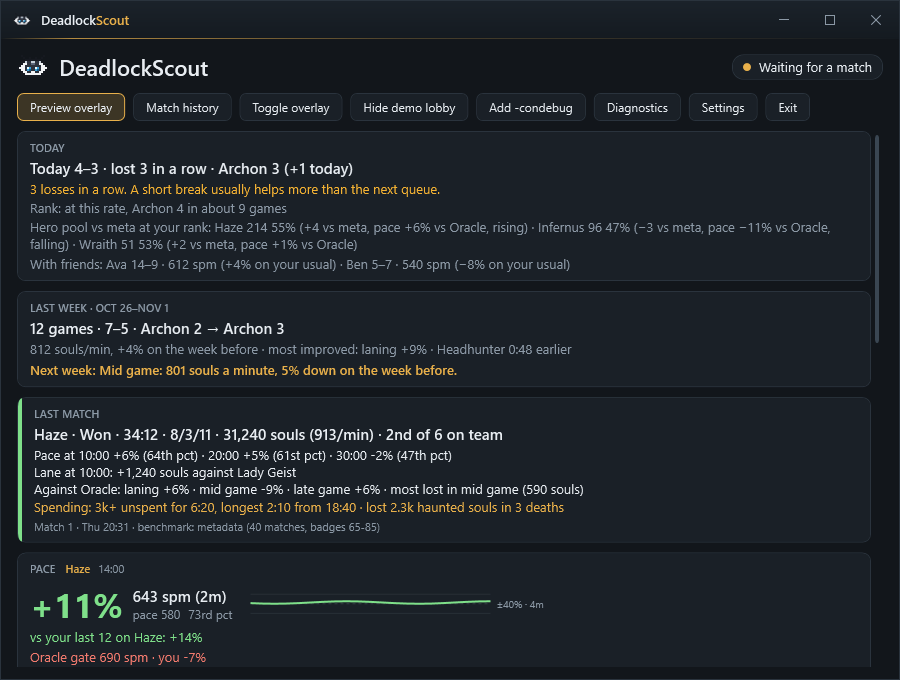
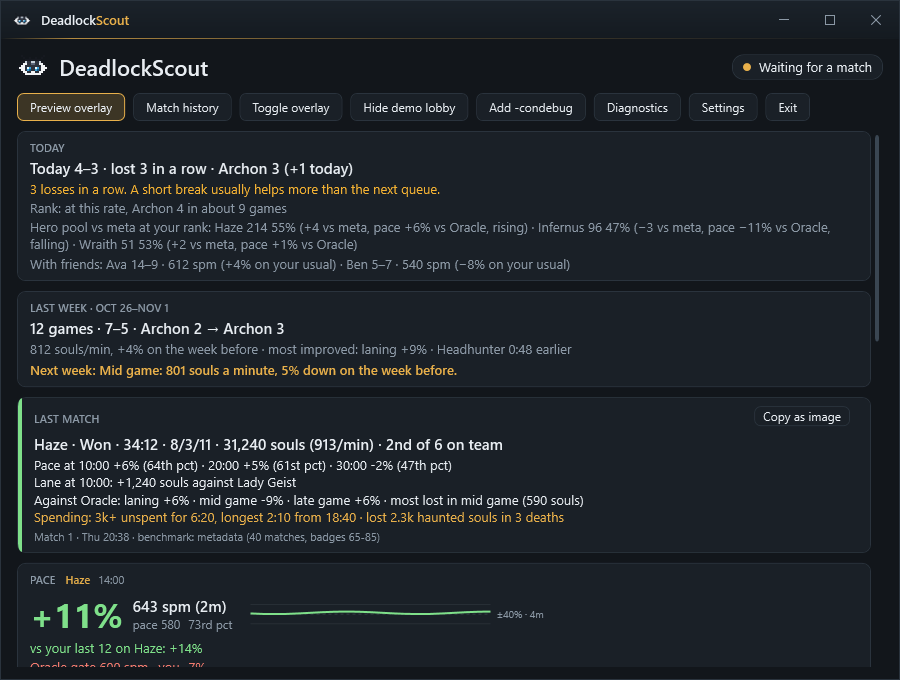
Last match: Copy as image, a share card for Discord (#156)
* Last match: Copy as image, a share card for Discord

"Copy as image" on the main window's last-match card puts a picture of
the report on the clipboard: the result line (hero, outcome, length,
K/D/A, souls), pace, lane (the opponent's hero, never a player), phases
and the spending recap, drawn from text on the app's own colours. Only
your own numbers: no other player's name, account id or rank, not the
footer with the match id and start time, and no game art.

App/Services/ShareCard renders it at twice its size; the screenshot run
saves the demo's card as share-card.png.

Claude-Session: https://claude.ai/code/session_01LSDkBn23Na5vMSKWLtGadZ

* Update app screenshots

* Update app screenshots

---------

Changed region(s): [[0.0311, 0.5868, 0.6533, 0.8029], [0.0311, 0.8338, 0.5911, 0.9882], [0.84, 0.5868, 0.9333, 0.6176]]

diff --git a/src/DeadlockScout.App/MainWindow.xaml b/src/DeadlockScout.App/MainWindow.xaml
@@ -157,7 +157,11 @@
                     <DockPanel>
                         <Border DockPanel.Dock="Left" Width="4" CornerRadius="8,0,0,8" Background="{Binding LastMatch.Won, Converter={x:Static vm:Converters.OutcomeBrush}}"/>
                         <StackPanel Margin="12,8">
-                            <TextBlock Text="LAST MATCH" Style="{StaticResource Caption}"/>
+                            <Grid>
+                                <TextBlock Text="LAST MATCH" Style="{StaticResource Caption}" VerticalAlignment="Center"/>
+                                <Button x:Name="ShareButton" Content="Copy as image" Click="CopyShareCard" HorizontalAlignment="Right" Padding="8,1" FontSize="12"
+                                        ToolTip="Copies this report as a picture to paste into Discord: your own numbers only, no other player's name, and not the match id"/>
+                            </Grid>
                             <TextBlock Text="{Binding LastMatch.Title}" FontSize="15" FontWeight="SemiBold" TextWrapping="Wrap"/>
                             <TextBlock Text="{Binding LastMatch.Pace}" TextWrapping="Wrap" Margin="0,2,0,0"
                                        Visibility="{Binding LastMatch.Pace, Converter={x:Static vm:Converters.VisibleIfNotEmpty}}"/>

diff --git a/src/DeadlockScout.App/Services/ShareCard.cs b/src/DeadlockScout.App/Services/ShareCard.cs
@@ -1,0 +1,81 @@
+using System.IO;
+using System.Windows;
+using System.Windows.Controls;
+using System.Windows.Media;
+using System.Windows.Media.Imaging;
+using DeadlockScout.App.ViewModels;
+using Brush = System.Windows.Media.Brush;
+using Brushes = System.Windows.Media.Brushes;
+using Application = System.Windows.Application;
+using Clipboard = System.Windows.Clipboard;
+using HorizontalAlignment = System.Windows.HorizontalAlignment;
+
+namespace DeadlockScout.App.Services;
+
+/// <summary>
+/// The last match's report as a picture to paste into Discord. Only your own numbers: the result line (hero, outcome,
+/// length, K/D/A, souls), the pace, the lane line (which names the opponent's hero, never a player), the phases and the
+/// spending recap. Never the footer (match id and start time), no other player's name, account id or rank, and no game
+/// art: the card is drawn from text on the app's own colours.
+/// </summary>
+public static class ShareCard
+{
+    public const double Width = 560;
+
+    /// <summary>The lines on the card, in order; empty ones are left out. Pure over the report's text, so the content is plain.</summary>
+    public static IReadOnlyList<string> Lines(PostMatchViewModel m)
+        => new[] { m.Title, m.Pace, m.Lane, m.Phases, m.Recap }.Where(l => !string.IsNullOrWhiteSpace(l)).ToList();
+
+    /// <summary>The card at twice its size, for a sharp paste.</summary>
+    public static BitmapSource Render(PostMatchViewModel m)
+    {
+        Brush Res(string key, Brush fallback) => Application.Current?.TryFindResource(key) as Brush ?? fallback;
+        var fg = Res("Fg", Brushes.White);
+        var muted = Res("Muted", Brushes.Gray);
+        var gold = Res("Gold", Brushes.Goldenrod);
+        var stack = new StackPanel { Margin = new Thickness(18, 14, 18, 14) };
+        stack.Children.Add(new TextBlock { Text = "LAST MATCH", FontSize = 11, FontWeight = FontWeights.SemiBold, Foreground = muted });
+        var lines = Lines(m);
+        for (int i = 0; i < lines.Count; i++)
+            stack.Children.Add(new TextBlock
+            {
+                Text = lines[i], TextWrapping = TextWrapping.Wrap, Margin = new Thickness(0, i == 0 ? 2 : 3, 0, 0),
+                FontSize = i == 0 ? 16 : 13, FontWeight = i == 0 ? FontWeights.SemiBold : FontWeights.Normal,
+                Foreground = lines[i] == m.Recap ? gold : fg,
+            });
+        stack.Children.Add(new TextBlock { Text = "DeadlockScout", FontSize = 11, Foreground = muted, Margin = new Thickness(0, 8, 0, 0), HorizontalAlignment = HorizontalAlignment.Right });
+        var card = new Border
+        {
+            Width = Width,
+            Background = Res("Surface", Brushes.Black),
+            BorderBrush = m.Won ? Res("Good", Brushes.LimeGreen) : Res("Bad", Brushes.IndianRed),
+            BorderThickness = new Thickness(5, 0, 0, 0),
+            CornerRadius = new CornerRadius(8),
+            Child = stack,
+        };
+        card.Measure(new System.Windows.Size(Width, double.PositiveInfinity));
+        card.Arrange(new Rect(card.DesiredSize));
+        card.UpdateLayout();
+        var bitmap = new RenderTargetBitmap((int)Math.Ceiling(card.ActualWidth * 2), (int)Math.Ceiling(card.ActualHeight * 2), 192, 192, PixelFormats.Pbgra32);
+        bitmap.Render(card);
+        bitmap.Freeze();
+        return bitmap;
+    }
+
+    /// <summary>Puts the card on the clipboard; false when there is no report or the clipboard is busy.</summary>
+    public static bool Copy(PostMatchViewModel m)
+    {
+        if (!m.HasData) return false;
+        try { Clipboard.SetImage(Render(m)); return true; }
+        catch (System.Runtime.InteropServices.COMException) { return false; } // another program holds the clipboard
+    }
+
+    public static void Save(BitmapSource image, string path)
+    {
+        var png = new PngBitmapEncoder();
+        png.Frames.Add(BitmapFrame.Create(image));
+        Directory.CreateDirectory(Path.GetDirectoryName(Path.GetFullPath(path))!);
+        using var file = File.Create(path);
+        png.Save(file);
+    }
+}

diff --git a/src/DeadlockScout.App/Program.cs b/src/DeadlockScout.App/Program.cs
@@ -247,6 +247,8 @@ public static class Program
                 ScreenshotRenderer.Render((FrameworkElement)VisualTreeHelper.GetChild(main, 0), main.Background, Path.Combine(folder, "window-frame.png"));
                 var content = (FrameworkElement)main.Content;
                 ScreenshotRenderer.RenderStacked(new[] { main.Header, main.Body }, main.Background, Path.Combine(folder, "main-window.png"), content.Margin);
+                // What "Copy as image" puts on the clipboard, from the demo's last match.
+                ShareCard.Save(ShareCard.Render(host.Services.GetRequiredService<OverlayState>().LastMatch), Path.Combine(folder, "share-card.png"));
 
                 var backdrop = new LinearGradientBrush(System.Windows.Media.Color.FromRgb(0x33, 0x3D, 0x47), System.Windows.Media.Color.FromRgb(0x0C, 0x0F, 0x12), 90);
                 // The match history with demo games, the first opened on its timelines.

diff --git a/src/DeadlockScout.App/MainWindow.xaml.cs b/src/DeadlockScout.App/MainWindow.xaml.cs
@@ -33,4 +33,13 @@ public partial class MainWindow : Window
     private void OpenSettings(object sender, RoutedEventArgs e) => _shell.OpenSettingsWindow();
     private void AddCondebug(object sender, RoutedEventArgs e) => _shell.AddCondebug();
     private void ShowDemo(object sender, RoutedEventArgs e) => _shell.ToggleDemo();
+
+    /// <summary>The last match's share card on the clipboard; the button says for a moment whether it worked.</summary>
+    private async void CopyShareCard(object sender, RoutedEventArgs e)
+    {
+        bool ok = DataContext is OverlayState s && Services.ShareCard.Copy(s.LastMatch);
+        ShareButton.Content = ok ? "Copied" : "Could not copy";
+        await Task.Delay(TimeSpan.FromSeconds(2));
+        ShareButton.Content = "Copy as image";
+    }
 }

diff --git a/docs/features.md b/docs/features.md
@@ -12,7 +12,7 @@ window.
 - **Lane matchups**: your hero's lane win rate against each lane opponent's hero at your rank, and under each opponent their **recent form**: their last ten games on that hero (record, souls per minute) against their usual pace on it, red when they are farming faster than usual ("last 10 on Lady Geist: 7–3 · 846/min, +9% on their usual"). One match-history call per lane opponent, cached a day; `overlay.panels.laneForm` turns it off.
 - **Build hint**: what your hero's players buy at your current souls, with their win rate, and your next usual ability point. Under it, the **next item nudge**: your usual next big item on this hero (3,000 souls and up, from your last 30 games, skipping what you already own) and when the rank gate's players have it, "Next: Fortitude · Oracle has it by 14:44 · in 0:24", gold 30 s before and red once you are past it. With the rank's soul curve it says it **at your pace** instead (0.3): how long, at your souls per minute over the last two minutes, until you have the souls the rank's players have when they buy it ("Next: Fortitude ~2:10 at your pace · Oracle 16:30", or "you have Oracle's souls for it"); not once you are past the rank's time, and none beyond ten minutes. It compares net worth with net worth, so it needs no guess at how many of your souls are unspent. Once your unspent souls cover the item's price it says so instead, in green, so a trip to the shop is not put off (0.4): "Next: Fortitude 3,200 · affordable now" from OCR's live count (haunted souls included, since they spend until a death takes them), or "affordable at 14:20" from the broadcast, which is half a minute late. `overlay.panels.nextItem` turns it off.
 - **Real-time souls by OCR** (M6, opt in): draw boxes over your soul count and the match clock, and the built-in Windows OCR reads them once a second, so your pace no longer lags the broadcast by a minute. The HUD's counter is your unspent souls, so the app adds the price of the items the broadcast says you hold, and of anything you bought since (a drop of about one item's price, read twice), to make it your net worth, which is what the pace curves count (0.3); haunted souls (unsecured: spendable, lost if you die), shown in a smaller line under the count, are read and added to your unspent souls, and the "SOULS" label beside the count is left out (0.3.1); Diagnostics' "OCR net worth" line says how close that came to the broadcast's once it caught up. While you are dead the game shows a teammate's souls in your HUD's place; those readings are held back (up to two minutes by the PC's clock, so a misread match clock cannot cut the hold short) and dropped, so cycling through teammates no longer moves your souls per minute. The clock read off the HUD has to follow the last good one (never backwards, never further ahead than the real time since), so a misread clock ("22:52" for 12:52) never places your souls at the wrong time: one digit off, it is put right to the clock that was due (0.3.3; OCR mixes up 9 and 0, 7 and 3, 1 and 2), and further off its whole reading is dropped; the log counts the clock readings ignored. **Use the preset boxes** (0.4) fills the boxes not drawn yet with where the souls count and the clock sit on a window of the game's shape, measured on a 16:9 screen (and marked "estimated" for other shapes, which assume the HUD keeps its distance from the left edge and the centre); a box you drew is never replaced, and the preview shows whether the preset fits. **The boxes follow the game window** (0.5): the tool saves the window size they were drawn on, and when the game later runs in a window of another shape (a new monitor, a resolution change) they are moved by the same rule before every read, and the tray says once "OCR boxes moved" with a click to the calibration tool to check them; the tool shows them where they now read. The same shape at another resolution needs nothing, since boxes are fractions of the window; boxes saved before 0.5 carry no size and are used as they are until saved again. The calibration tool reads the selected box live and says what is wrong with it: red when the reading is not a number (or a clock), gold when the box also reads something besides the number ("768 9": a stray glyph) or when its readings jump in a way the game never does (768 then 7,689: the soul icon read as a digit now and then), blue with "steady" when it reads cleanly. **Glyph reader** (0.3): each steady reading also teaches the app the HUD's digits, and once it knows all ten it reads the souls and the clock itself, a few pixels' comparison instead of a full OCR engine, asking Windows OCR only for a box it cannot read clearly (so with clean boxes Windows OCR never even loads). The clock and the souls count are drawn in different fonts, so each box learns its own digits (0.3.1): keep the match clock selected in the tool for ten seconds or so while it ticks and it learns the clock's; the souls count learns its own as your souls change, in the tool or during a match from readings that pass the app's checks. The tool's line under the reading says what the selected box still misses, and **Teach this box again** under it forgets that box's glyphs to learn them afresh (after a patch changed the HUD font) (0.3.3). During a match, a box that reads nothing for 45 s while the game is in front (drawn wrong, or the HUD moved) is named once in the tray (0.3.3); a click opens the calibration tool. The souls box's preview outlines what is read (0.3.3): the count in blue, the soul icon in grey once the glyph reader has learned it (an extra glyph left of the number that the readings never include; from then on it is cut off before every read, so the box may start at the icon), and haunted souls in red. Diagnostics shows how many reads it answers, and asks for a recalibration when most of them fall back (a patch changed the HUD font). `ocr.glyphReader` in Settings → OCR turns it off. The enemy scoreboard boxes of earlier versions are gone (0.4.0): nothing read them, and the scoreboard shows souls only to the thousand ("11k"), where the enemy pace board already has every enemy's exact souls from the broadcast. Only those boxes are ever captured, never the rest of the screen, and nothing while OCR is off. Needs Windows 10 2004 or later and a Windows language with OCR support (English is).
-- **Post-match report**: result, K/D/A, souls per minute, where you ranked on your team, your pace against the benchmark at 10, 20 and 30 minutes, how your lane went, and each phase against the rank above yours ("Against Oracle: laning +6% · mid game −9% · late game +6% · most lost in mid game"), shown in the main window and as a tray notice once deadlock-api has the match. Replay salts from your Steam cache are sent to deadlock-api automatically (once per match; `ingest.autoSubmitSalts`) so your matches get on record; they land in Steam's cache when you open a match in Deadlock's in-game match history, and **Send my matches to deadlock-api** in the match history sends them at once and says what it found (Diagnostics shows the last scan).
+- **Post-match report**: result, K/D/A, souls per minute, where you ranked on your team, your pace against the benchmark at 10, 20 and 30 minutes, how your lane went, and each phase against the rank above yours ("Against Oracle: laning +6% · mid game −9% · late game +6% · most lost in mid game"), shown in the main window and as a tray notice once deadlock-api has the match. Replay salts from your Steam cache are sent to deadlock-api automatically (once per match; `ingest.autoSubmitSalts`) so your matches get on record; they land in Steam's cache when you open a match in Deadlock's in-game match history, and **Send my matches to deadlock-api** in the match history sends them at once and says what it found (Diagnostics shows the last scan). **Copy as image** (0.5) on the last match's card puts a picture of it on the clipboard to paste into Discord: the result line, pace, lane, phases and spending recap, on the app's own colours. Only your own numbers: no other player's name, account id or rank, not the match id or its start time, and no game art.
 - **Match history**: your last 20 games with your rank over 30 days, win rate, KDA, main heroes and the last 15 results, then a card per game (result, hero, K/D/A, final items, souls and souls per minute, last hits, where your souls ranked on your team, both teams). Each card puts your total souls beside the K/D/A. Open a game for its **soul timeline** (your souls through the match, with every item you bought marked where you bought it, coloured by slot, and a dashed **rank gate**: the average souls on that hero of a rank you pick from a drop-down, Eternus down to Alchemist, starting on the tier above yours, with how far above or below it you finished, split into laning, mid game and late game chips; the timeline marks the three phases) and its **item purchases** in order, sold ones included. An **item timings** card lists the items you buy most with your average buy time against the rank gate's ("Headhunter 13:58 · Oracle 12:07 · +1:51"), and names the item furthest behind; each purchase on an opened game shows the rank's time and your gap too. A **phases** card pools laning (0–10 min), mid game (10–20) and late game (20+) over the page's games against the rank gate: your souls per minute and the rank's in each, how many souls a game you are behind or ahead, and which phase costs you the most. Above the cards, **trends** over your last 20, 50 or 100 games, for all heroes or one: rolling win rate and souls per minute (each game a dot coloured by result), the older half against the newer half for win rate, souls per minute and KDA, and a row per hero (games, W–L, win rate, KDA, souls per minute, last played), all from the history already fetched. **Soul sources**: an opened game lists where its souls came from (troopers, jungle, kills, objectives, the rest, and what you lost on death), each against the rank gate, and a card over the page names the source that costs you the most souls a game ("Troopers cost you the most: 1.2k souls a game behind Oracle"). **Weekly summary**: a "last week" card in the main window sets your last full week against the week before (games, record, rank change, souls per minute, the phase and item that improved most) and names one thing to work on next week. **Goals**: set your own targets in the match history (laning pace by 10:00, at most so many deaths in laning, a phase to fix against the rank gate); every game is marked hit or missed, and the card shows each target's hit rate over your last 20 games with a dot per game. During a match (0.3) the pace strip checks them live under the phase chips: "Goals: on track for 420 spm by 10:00 · one laning death left" (or the pace the rest of laning needs), then, while the phase you chose to fix is on, "mid game to fix: −7% on the gate". Your deaths come from the broadcast; not while spectating; `overlay.panels.liveGoals` turns it off. **Unspent souls** (0.3): from 3,000 souls not spent (Settings → Overlay, `coaching.unspentSouls`; 0 turns it off) the pace strip says "3.4k unspent: spend before you fight", live from the HUD's counter with OCR on, else from the broadcast's net worth less the items held, with its game time since it is about 35 s late. **Haunted souls at risk** (0.3.3): haunted souls are lost if you die, so from 1,000 of them (`coaching.hauntedSouls`, read by OCR) the line adds "1.1k of it haunted, lost if you die", or says "1.2k haunted souls: lost if you die, spend or secure them" on its own. **Souls lost at a death** (0.3.3): when the haunted line vanishes and your unspent souls fall by about as much, a death took them, and the pace strip says "Died at 14:20: lost 1,051 haunted souls" for half a minute (OCR only). **Spending recap** (0.3.3): the last match's card adds "Spending: 3k+ unspent for 6:20, longest 2:10 from 18:40 · lost 2.3k haunted souls in 3 deaths", from that match's soul readings. **Death review**: each death on an opened game with the souls you were carrying unspent (red at 3k or more) and a cross on the soul timeline, the souls the rank gate gained while you were dead, and a card over the page ("Spend before you fight: 9 of 24 deaths came with 3k or more souls unspent"). **Counter notes**: an opened game lists each enemy hero with their counter items for the hero you played (the same measured items as the scout list's [!] tags, up to three, each marked bought or not in that game), and a **heroes that beat you** card names the enemy heroes you lose to most over the page (your W–L with them in the enemy line-up) with their counter items. One cached call per hero pair, made when a game is first opened. One bulk call fetches the games not seen before; a finished game is cached for good. **Processing cards**: a game you just played shows at the top straight away (hero, when, roughly how long), even before deadlock-api lists it in your history, which can take hours; it becomes a full card as soon as the API has the match, and the post-match follow-up asks deadlock-api to fetch it from Steam twice (8 and 60 minutes after the match) when nobody else has sent it. From the main window or the tray. **Filters** (0.5) over the cards: one hero, ranked only, or the games with one of the friends from the teammate record; the summary, the trends and every section below are then of those games only, while the rank line stays your account's. Nothing is fetched again.
 - **Session view**: today's wins and losses, your streak, how your rank moved, a **rank forecast** (0.5: a line through your last 20 ranked games' badges, "Rank: at this rate, Archon 4 in about 9 games", "slipping" or "holding steady", only from 8 ranked games and never beyond 40 games out; a trend, not a promise), a nudge to take a break after three losses in a row or, from 0.4, three games today all under the rank gate's pace (`session.paceSlideNudge`; each game's souls against the gate's at its length, any hero, games of ten minutes or more), said once a session in the tray too, between matches only (`session.nudgeInTray`), the **teammate record** (0.4): the three friends you queued with most, with your record together and your souls per minute in those games against your usual ("With friends: Ava 14–9 · 612 spm (+4% on your usual)"; `session.teammates`, 0 turns it off; from `mate-stats` with its party filter and your match history, and each friend's Steam display name, nothing else of their profile, cached a week), and your most played heroes against their meta win rate at your rank. Each hero also gets its **pace against the rank gate** (0.4): your last ten games of ten minutes or more on it, each game's souls against what the gate's players have at that game's length, averaged, with the trend of the newer games against the older ones ("Abrams 96 47% (−1 vs meta, pace −11% vs Oracle, falling)"), so a hero that wins about as often as the meta but farms well under the gate shows. The gate's curves come from the same cached call as the overlay's gate line. In the overlay only outside a match, and in the main window.
 - **Benchmarks ready at match start**: between matches the app prefetches the accurate and personal pace curves for the heroes you play most.
@@ -64,6 +64,10 @@ The app's own window frame: a dark title bar with the gold-ruled DeadlockScout n
 The main window with the same demo lobby, spike chips and team lines included, under today's session and last week's summary.
 
 ![The DeadlockScout main window with a demo lobby](screenshots/main-window.png)
+
+What **Copy as image** puts on the clipboard, from the demo's last match:
+
+![The share card: result, pace, lane, phases and the spending recap on a dark card](screenshots/share-card.png)
 
 The first-run wizard on its Steam step, as a new player sees it on a PC without Steam (the screenshot runner's): the cross says what is missing and the fields take the folders by hand.
 

diff --git a/docs/roadmap.md b/docs/roadmap.md
@@ -370,9 +370,10 @@ Between matches:
   for the filtered games. The filter is a view; nothing is fetched again. *Nov 5: `History/HistoryFilter` rebuilds the
   page (cards, summary, trend rows) from the kept games; the friend filter uses the match ids `mate-stats` lists for
   each friend of the teammate record (`TeammateRow.MatchIds`); games still processing show only without a filter.*
-- [ ] Share card: **Copy as image** on the last match's report puts a picture of it on the clipboard (result, hero,
+- [x] Share card: **Copy as image** on the last match's report puts a picture of it on the clipboard (result, hero,
   K/D/A, souls per minute, pace at 10/20/30 and the phases against the gate) to paste into Discord. Only your own
-  numbers: no other player's name, account id or rank, and no game art.
+  numbers: no other player's name, account id or rank, and no game art. *Nov 5: `App/Services/ShareCard` draws the
+  card from the report's lines (never its footer, which holds the match id and start time) at twice its size.*
 
 Toward 1.0:
 
